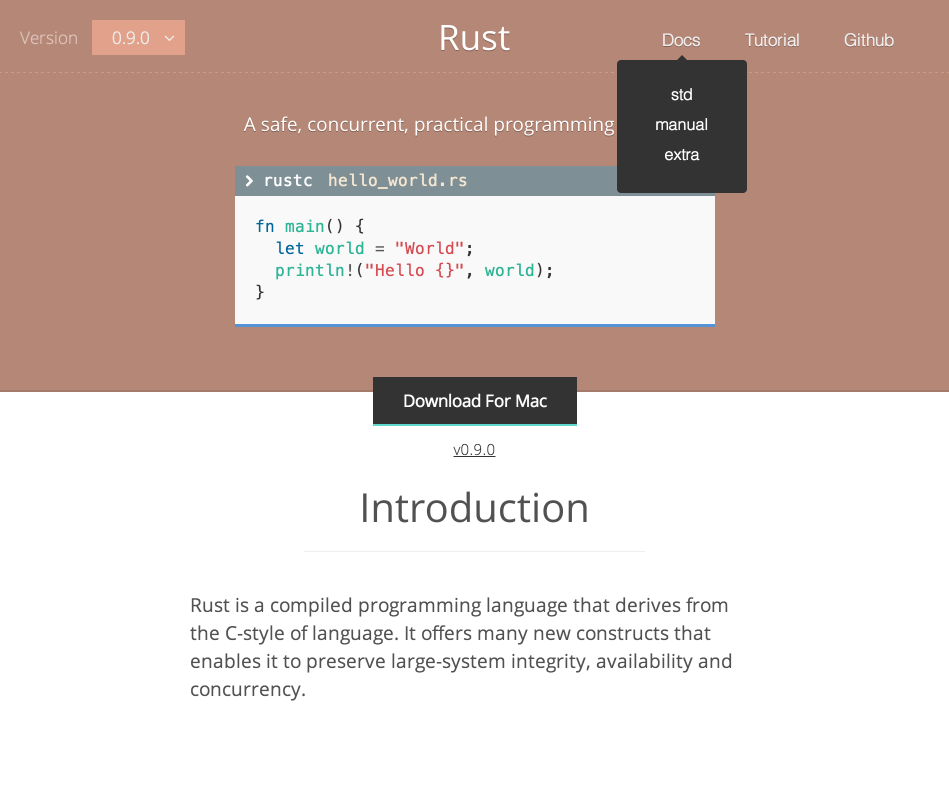
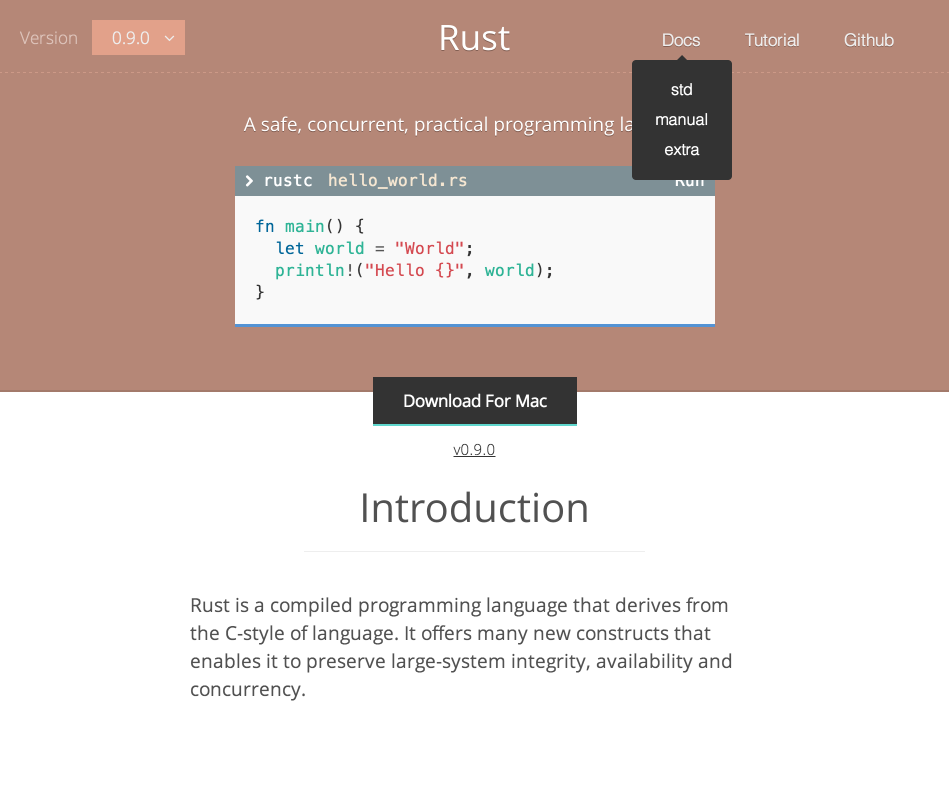
made the hover box smaller

Changed region(s): [[0.6417, 0.0605, 0.7945, 0.2421]]

diff --git a/public/css/app.css b/public/css/app.css
@@ -168,11 +168,10 @@ header li.docs {
     border-radius: 4px;
     opacity: 1;
     z-index: 10;
-    width: 130px;
     background: #333;
     min-width: 100px;
-    padding: 8px 0;
-    padding-top: 35px;
+    padding: 0px 0;
+    padding-top: 30px;
     border: none;
     -webkit-transform: scale(0.5) translateX(-50%);
     -ms-transform: scale(0.5) translateX(-50%);
@@ -188,6 +187,8 @@ header li.docs {
       text-shadow: none;
       color: #fff;
       font-size: 16px; }
+    header li.docs .sub a:hover {
+      text-decoration: underline; }
   header li.docs .sub:before {
     content: '';
     display: block;

diff --git a/sass/header.scss b/sass/header.scss
@@ -120,13 +120,13 @@ header li.docs {
     border-radius: 4px;
     opacity: 1;
     z-index: 10;
-    width: 130px;
+    //width: 130px;
     //margin-top: 10px;
 
     background: #333;
     min-width: 100px;
-    padding: 8px 0;
-    padding-top: 35px;
+    padding: 0px 0;
+    padding-top: 30px;
     border: none;
 
     -webkit-transform: scale(0.5) translateX(-50%);
@@ -144,6 +144,10 @@ header li.docs {
       text-shadow: none;
       color: #fff;
       font-size: 16px;
+    }
+
+    a:hover {
+      text-decoration: underline;
     }
   }
 
